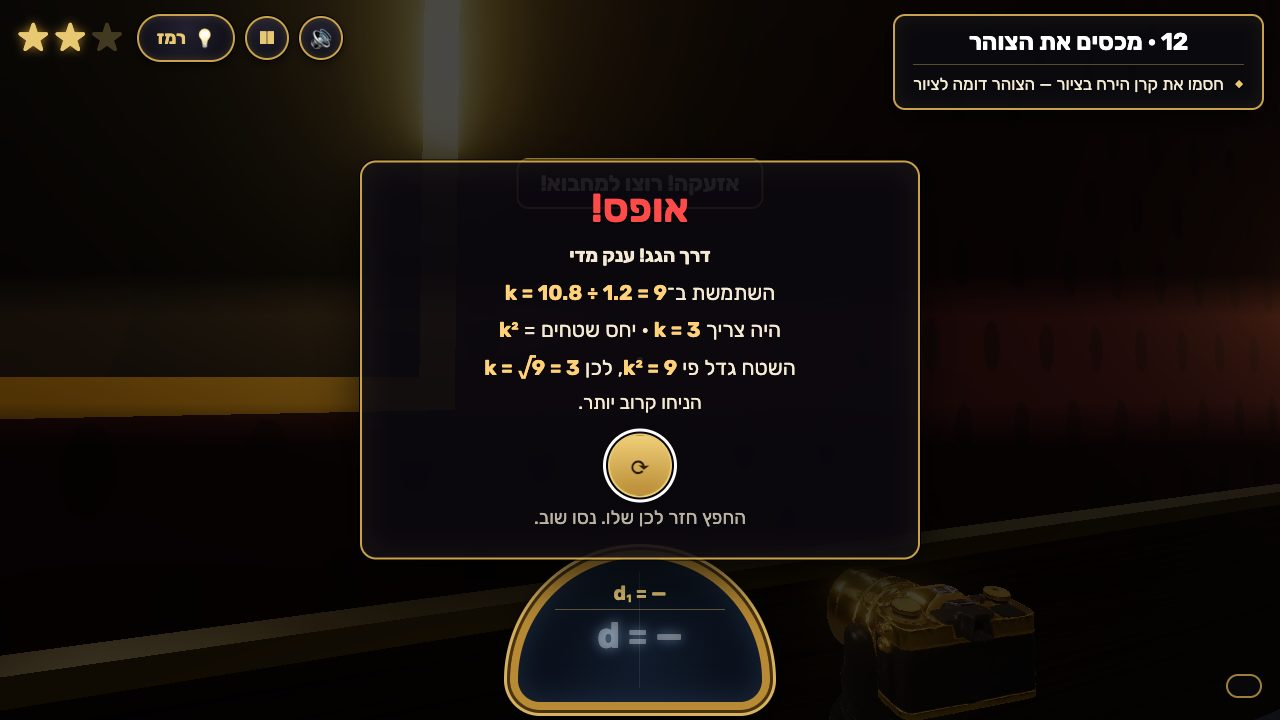
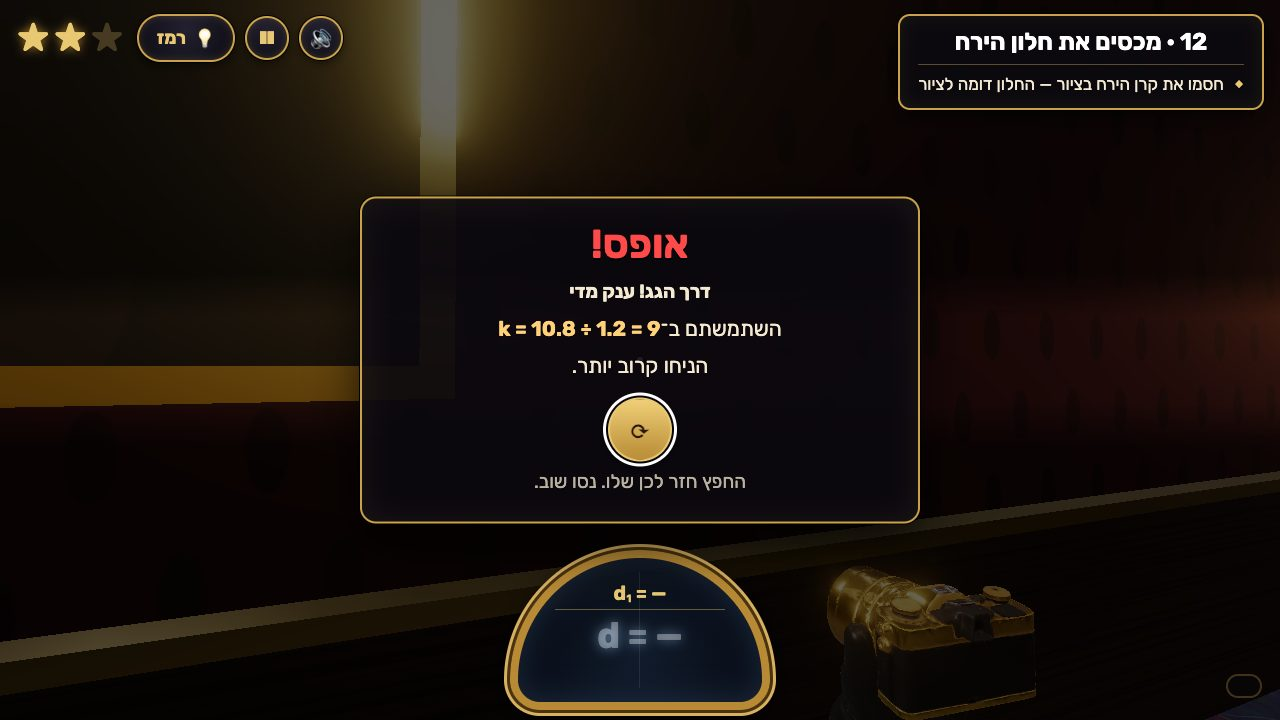
Visual review: progressive card and roof hole

diff --git a/docs/VISUAL_REVIEW.md b/docs/VISUAL_REVIEW.md
@@ -25,9 +25,9 @@ Actual: `docs/captures/*.jpg`, captured 2026-10-31 by `tests/browser-capture.mjs
 ## 03 · Failure → `03-failure-crash.jpg`, `03b-guard-chase.jpg`, `03c-hidden.jpg`, `03d-worked-ratio.jpg`
 
 Real sequence on level 12: grab the painting at d₁ = 1.20 m, drop at d = 10.80 m (k = 9, the area ratio taken as k).
-- **Match:** the painting grows ×9 and rises through the ceiling (roof crash) with glass/plaster particles and falling debris, screen-edge red vignette, red pulsing alarm lights, the lens bezel turns red, a star is lost, toast "דרך הגג! ענק מדי".
+- **Match:** the painting grows ×9 and bursts through the ceiling (roof crash): a jagged moonlit hole and light shaft open in the ceiling, the camera tilts up to it, glass/plaster particles and debris fall, screen-edge red vignette, red pulsing alarm lights, the lens bezel turns red, a star is lost, toast "דרך הגג! ענק מדי".
 - **Match:** the rigged Tripo guard (round, mustache, peaked cap) runs in from his door (`run` clip) with a flashlight cone; a round gold "מחבוא" chip appears on the right; hiding in the upright Tripo sarcophagus switches to a peek view while the guard searches with `look_around`/`scratch_head` and then leaves.
-- **Match:** the worked-ratio card: big red "אופס!", the used ratio `k = 10.8 ÷ 1.2 = 9`, the needed `k = 3 · יחס שטחים = k²`, the root line `k = √9 = 3`, which way to move, and a round retry button. The mockup's RTL bug (k² on the wrong side) is fixed: math sits in LTR isolates.
+- **Match:** the worked-ratio card: big red "אופס!", the headline of what happened, the ratio used `k = 10.8 ÷ 1.2 = 9` and which way to move, and a round retry button. It is progressive (playtest fix): the 2nd miss on a target adds the ratio kind (`יחס שטחים — k²`), only the 3rd shows the needed `k = 3` and `k = √9 = 3`. The mockup's RTL bug (k² on the wrong side) is fixed: math sits in LTR isolates.
 - **Deviation:** the mockup shows everything in one frame (crash + guard + card). The game sequences them: crash (1.6 s) → chase → hide → card, so the card never covers the chase.
 - **Deviation:** our painting is a procedural gold frame with a drawn cat; the mockup's is a lavish oil painting.
 
